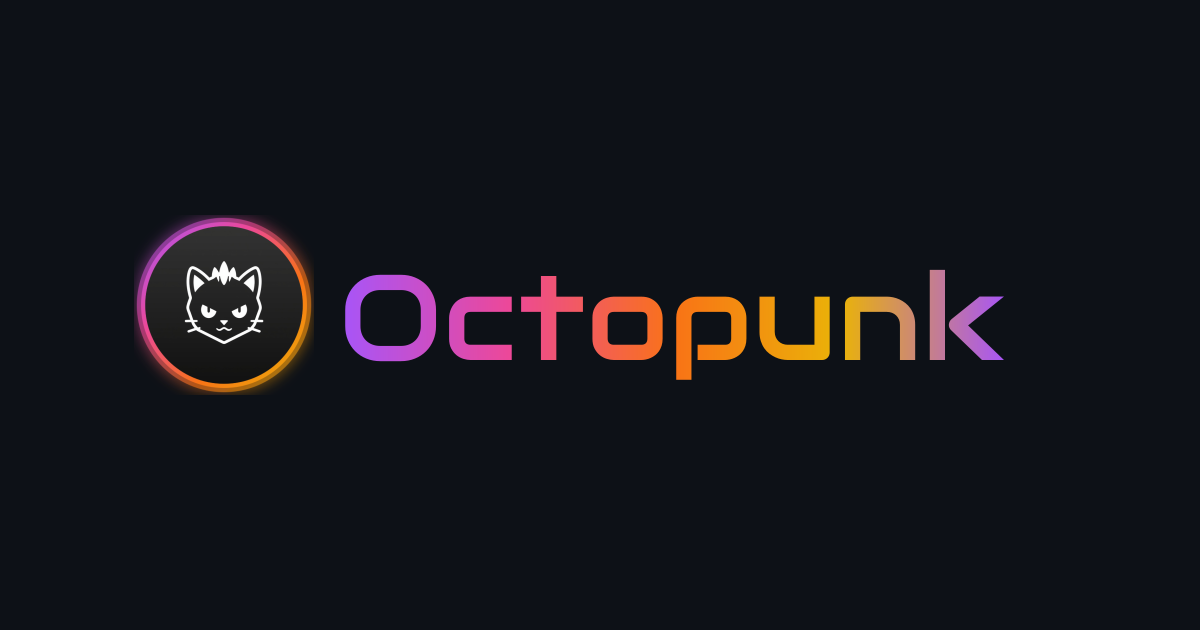
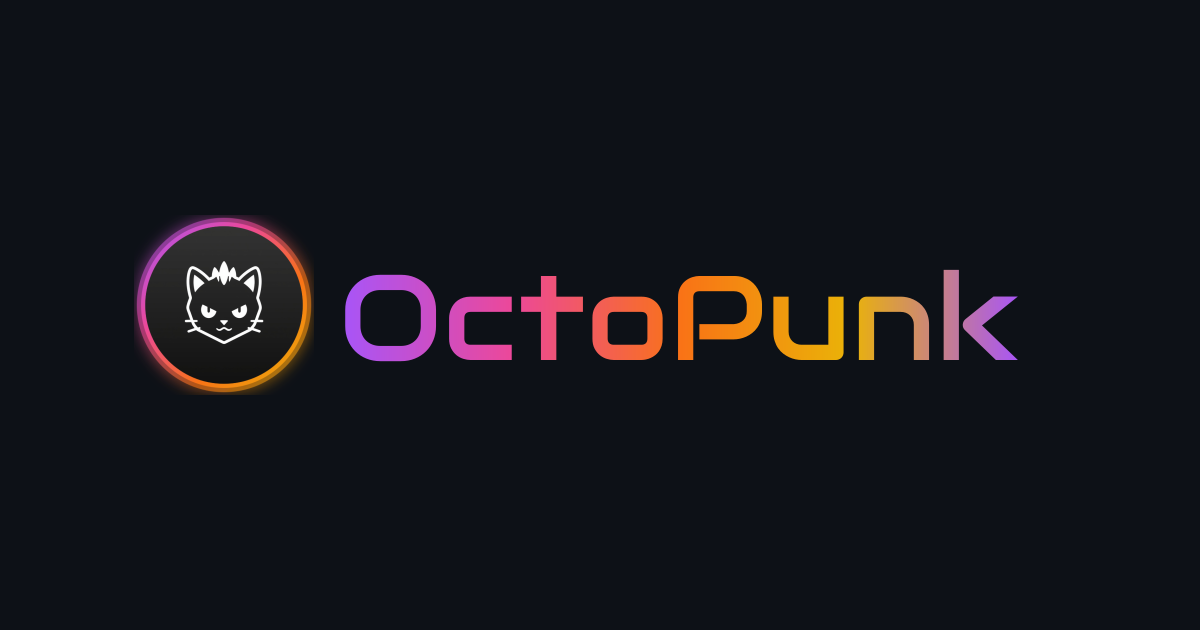
conform on OctoPunk spelling

Changed region(s): [[0.555, 0.4222, 0.8633, 0.6032]]

diff --git a/src/routes/compare/+page.svelte b/src/routes/compare/+page.svelte
@@ -20,7 +20,7 @@
 
 <Seo
   title="GitHub Desktop alternatives"
-  description="An honest comparison of Octopunk against GitHub Desktop, GitKraken, the VS Code Pull Requests extension, and JetBrains' GitHub plugin. The only desktop GitHub client that covers notifications, PR review, issues, projects, discussions, and actions in one window."
+  description="An honest comparison of OctoPunk against GitHub Desktop, GitKraken, the VS Code Pull Requests extension, and JetBrains' GitHub plugin. The only desktop GitHub client that covers notifications, PR review, issues, projects, discussions, and actions in one window."
 />
 
 <div class="page">
@@ -31,12 +31,12 @@
       <section class="compare-hero">
         <h1>GitHub Desktop alternatives</h1>
         <p class="lede">
-          Octopunk is the only full-featured GitHub client for the desktop.
+          OctoPunk is the only full-featured GitHub client for the desktop.
         </p>
         <p class="sublede">
           Every other "GitHub client" covers a slice — pull requests in your editor,
           notifications in your menubar, or a friendlier wrapper around <code>git push</code>.
-          Octopunk covers the whole platform: notifications, PR review, issues, projects,
+          OctoPunk covers the whole platform: notifications, PR review, issues, projects,
           discussions, and actions, in one window.
         </p>
       </section>
@@ -99,9 +99,9 @@
       </section>
 
       <section class="compare-cta">
-        <h2>Try Octopunk</h2>
+        <h2>Try OctoPunk</h2>
         <p>Free for public repositories. Mac, Linux, and Windows.</p>
-        <a href="/" class="btn btn-primary btn-large">Get Octopunk</a>
+        <a href="/" class="btn btn-primary btn-large">Get OctoPunk</a>
       </section>
     </div>
   </main>

diff --git a/src/routes/about/+page.svelte b/src/routes/about/+page.svelte
@@ -19,7 +19,7 @@
 
 <Seo
   title="About"
-  description="The story behind Octopunk — a small team building the GitHub Desktop alternative they always wanted: keyboard-driven, fast, and out of your way."
+  description="The story behind OctoPunk — a small team building the GitHub Desktop alternative they always wanted: keyboard-driven, fast, and out of your way."
 />
 
 <div class="page">
@@ -28,13 +28,13 @@
   <main class="page-content">
     <div class="container about-container">
       <section class="about-hero">
-        <h1>About Octopunk</h1>
+        <h1>About OctoPunk</h1>
         <p class="lede">A GitHub client for people who'd rather not live in a browser tab.</p>
       </section>
 
       <section class="about-prose">
         <p>
-          Octopunk was built by a small team of developers who got fed up with using GitHub.
+          OctoPunk was built by a small team of developers who got fed up with using GitHub.
         </p>
 
         <p>
@@ -65,7 +65,7 @@
 
         <p>
           Drop by the
-          <a href="https://github.com/octopunkio/community" target="_blank" rel="noopener">Octopunk community repo</a>
+          <a href="https://github.com/octopunkio/community" target="_blank" rel="noopener">OctoPunk community repo</a>
           to file bugs, request features, or just say hi.
         </p>
 

diff --git a/src/routes/dashboard/+page.svelte b/src/routes/dashboard/+page.svelte
@@ -407,14 +407,14 @@
   $: licensed = (user, subscriptionState, isLicensed());
 </script>
 
-<Seo title="Dashboard" description="Manage your Octopunk subscription." noindex={true} />
+<Seo title="Dashboard" description="Manage your OctoPunk subscription." noindex={true} />
 
 <div class="page">
   <header class="page-header">
     <div class="container flex justify-between items-center">
       <a href="/" class="logo">
-        <img src="/octopunk-icon.png" alt="Octopunk" class="logo-icon" />
-        <span class="logo-wordmark">Octopunk</span>
+        <img src="/octopunk-icon.png" alt="OctoPunk" class="logo-icon" />
+        <span class="logo-wordmark">OctoPunk</span>
       </a>
       <nav class="flex items-center gap-4">
         {#if user?.is_admin}
@@ -677,9 +677,9 @@
         </div>
 
         <div class="card mt-8">
-          <h3>Download Octopunk</h3>
+          <h3>Download OctoPunk</h3>
           <p class="text-secondary mt-4">
-            Download the Octopunk desktop app to get started.
+            Download the OctoPunk desktop app to get started.
           </p>
           <div class="stream-select mt-4">
             <label for="stream-select">Release channel</label>

diff --git a/src/routes/docs/[...slug]/+page.svelte b/src/routes/docs/[...slug]/+page.svelte
@@ -22,8 +22,8 @@
 					tocEntries.push({ level: depth, text, id: slug });
 				}
 
-				if (depth === 1 && text.includes('Octopunk')) {
-					return `<h1 id="${slug}"><img src="/octopunk-icon.png" alt="Octopunk logo" class="h1-logo" />${content}</h1>`;
+				if (depth === 1 && text.includes('OctoPunk')) {
+					return `<h1 id="${slug}"><img src="/octopunk-icon.png" alt="OctoPunk logo" class="h1-logo" />${content}</h1>`;
 				}
 				return `<h${depth} id="${slug}">${content}</h${depth}>`;
 			}
@@ -82,7 +82,7 @@
 
 <Seo
 	title={data.meta.title || 'Documentation'}
-	description={data.meta.description || `${data.meta.title || 'Documentation'} — Octopunk docs.`}
+	description={data.meta.description || `${data.meta.title || 'Documentation'} — OctoPunk docs.`}
 />
 
 <div class="docs-page">
@@ -94,7 +94,7 @@
 				</svg>
 			</a>
 			<a href="/docs" class="sidebar-title">
-				<img src="/octopunk-icon.png" alt="Octopunk logo" class="sidebar-logo" />
+				<img src="/octopunk-icon.png" alt="OctoPunk logo" class="sidebar-logo" />
 				Documentation
 			</a>
 		</div>

diff --git a/src/routes/+page.svelte b/src/routes/+page.svelte
@@ -42,7 +42,7 @@
   {@html `<script type="application/ld+json">${JSON.stringify({
     '@context': 'https://schema.org',
     '@type': 'SoftwareApplication',
-    name: 'Octopunk',
+    name: 'OctoPunk',
     description: DEFAULT_DESCRIPTION,
     url: SITE_URL,
     applicationCategory: 'DeveloperApplication',
@@ -55,7 +55,7 @@
     },
     author: {
       '@type': 'Organization',
-      name: 'Octopunk',
+      name: 'OctoPunk',
       url: SITE_URL,
       sameAs: ['https://www.linkedin.com/company/octopunk']
     }
@@ -90,7 +90,7 @@
           A GitHub Desktop alternative for Mac, Linux, and Windows — built for power users.
         </p>
         <p class="text-secondary mt-4">
-          Octopunk is a GitHub client built for the modern hacker. Fuzzy search across repos,
+          OctoPunk is a GitHub client built for the modern hacker. Fuzzy search across repos,
           create tailored dashboard views, LSP aware, and keyboard shortcuts everywhere — GitHub that finally works like your editor.
         </p>
         <p class="text-secondary mt-4">

diff --git a/src/routes/pricing/+page.svelte b/src/routes/pricing/+page.svelte
@@ -97,7 +97,7 @@
 
 <Seo
   title="Pricing"
-  description="Octopunk is free for public repositories on Mac, Linux, and Windows. Subscribe to unlock private repositories — fixed monthly or annual pricing, no surprises."
+  description="OctoPunk is free for public repositories on Mac, Linux, and Windows. Subscribe to unlock private repositories — fixed monthly or annual pricing, no surprises."
 />
 
 <div class="page">
@@ -144,7 +144,7 @@
               {:else}
                 <div class="download-dropdown" bind:this={dropdownButton}>
                   <button class="btn btn-secondary btn-block" on:click={toggleDropdown}>
-                    Download Octopunk
+                    Download OctoPunk
                     <svg viewBox="0 0 16 16" width="14" height="14" fill="currentColor" class="chevron" class:open={dropdownOpen}>
                       <path d="M12.78 5.22a.749.749 0 0 1 0 1.06l-4.25 4.25a.749.749 0 0 1-1.06 0L3.22 6.28a.749.749 0 1 1 1.06-1.06L8 8.939l3.72-3.719a.749.749 0 0 1 1.06 0Z"/>
                     </svg>

diff --git a/src/lib/components/Footer.svelte b/src/lib/components/Footer.svelte
@@ -1,12 +1,12 @@
 <footer class="page-footer">
   <div class="container footer-row">
-    <p class="footer-copy text-secondary">&copy; 2025 Octopunk. All rights reserved.</p>
+    <p class="footer-copy text-secondary">&copy; 2025 OctoPunk. All rights reserved.</p>
     <nav class="footer-social" aria-label="Social">
       <a
         href="https://www.linkedin.com/company/octopunk"
         target="_blank"
         rel="noopener"
-        aria-label="Octopunk on LinkedIn"
+        aria-label="OctoPunk on LinkedIn"
         class="footer-social-link"
       >
         <svg viewBox="0 0 24 24" width="20" height="20" fill="currentColor" aria-hidden="true">

diff --git a/src/routes/atom.xml/+server.js b/src/routes/atom.xml/+server.js
@@ -83,7 +83,7 @@ ${post.excerpt ? `    <summary>${escapeXml(post.excerpt)}</summary>\n` : ''}    
 <feed xmlns="http://www.w3.org/2005/Atom">
   <id>${escapeXml(FEED_ID)}</id>
   <title>${escapeXml(SITE_NAME)} Blog</title>
-  <subtitle>Notes, releases, and assorted thoughts from the Octopunk team.</subtitle>
+  <subtitle>Notes, releases, and assorted thoughts from the OctoPunk team.</subtitle>
   <link href="${escapeXml(FEED_URL)}" rel="self" type="application/atom+xml" />
   <link href="${escapeXml(SITE_URL + '/blog')}" rel="alternate" type="text/html" />
   <updated>${updated}</updated>

diff --git a/src/app.html b/src/app.html
@@ -4,7 +4,7 @@
 		<meta charset="utf-8" />
 		<link rel="icon" href="%sveltekit.assets%/octopunk-icon-glow.png" />
 		<meta name="viewport" content="width=device-width, initial-scale=1" />
-		<link rel="alternate" type="application/atom+xml" title="Octopunk Blog" href="/atom.xml" />
+		<link rel="alternate" type="application/atom+xml" title="OctoPunk Blog" href="/atom.xml" />
 		<link rel="preconnect" href="https://fonts.googleapis.com">
 		<link rel="preconnect" href="https://fonts.gstatic.com" crossorigin>
 		<!-- Async, non-render-blocking font load. The Google Fonts URL already

diff --git a/src/lib/components/Seo.svelte b/src/lib/components/Seo.svelte
@@ -30,8 +30,8 @@
 
   $: pathname = $page?.url?.pathname || '/';
   $: resolvedCanonical = canonical || canonicalFor(pathname);
-  // Skip the " — Octopunk" suffix when the page's own title already
-  // contains the brand name, to avoid "Introducing Octopunk … — Octopunk".
+  // Skip the " — OctoPunk" suffix when the page's own title already
+  // contains the brand name, to avoid "Introducing OctoPunk … — OctoPunk".
   $: fullTitle = !title
     ? DEFAULT_TITLE
     : title.toLowerCase().includes(SITE_NAME.toLowerCase())

diff --git a/src/lib/components/Header.svelte b/src/lib/components/Header.svelte
@@ -40,9 +40,9 @@
 
 <header class="page-header">
   <div class="container header-row">
-    <a href="/" class="logo" aria-label="Octopunk home">
-      <img src="/octopunk-icon.png" alt="Octopunk logo" class="logo-icon" />
-      <span class="logo-wordmark">Octopunk</span>
+    <a href="/" class="logo" aria-label="OctoPunk home">
+      <img src="/octopunk-icon.png" alt="OctoPunk logo" class="logo-icon" />
+      <span class="logo-wordmark">OctoPunk</span>
     </a>
 
     <!-- Desktop nav: shown ≥720px -->

diff --git a/src/lib/seo.js b/src/lib/seo.js
@@ -3,8 +3,8 @@
 // prerendered HTML.
 
 export const SITE_URL = 'https://www.octopunk.io';
-export const SITE_NAME = 'Octopunk';
-export const DEFAULT_TITLE = 'Octopunk — A GitHub Desktop alternative for power users';
+export const SITE_NAME = 'OctoPunk';
+export const DEFAULT_TITLE = 'OctoPunk — A GitHub Desktop alternative for power users';
 // Length kept under 160 chars so it doesn't get truncated in Google SERPs or
 // flagged as too-long by Bing Webmaster Tools.
 export const DEFAULT_DESCRIPTION =
